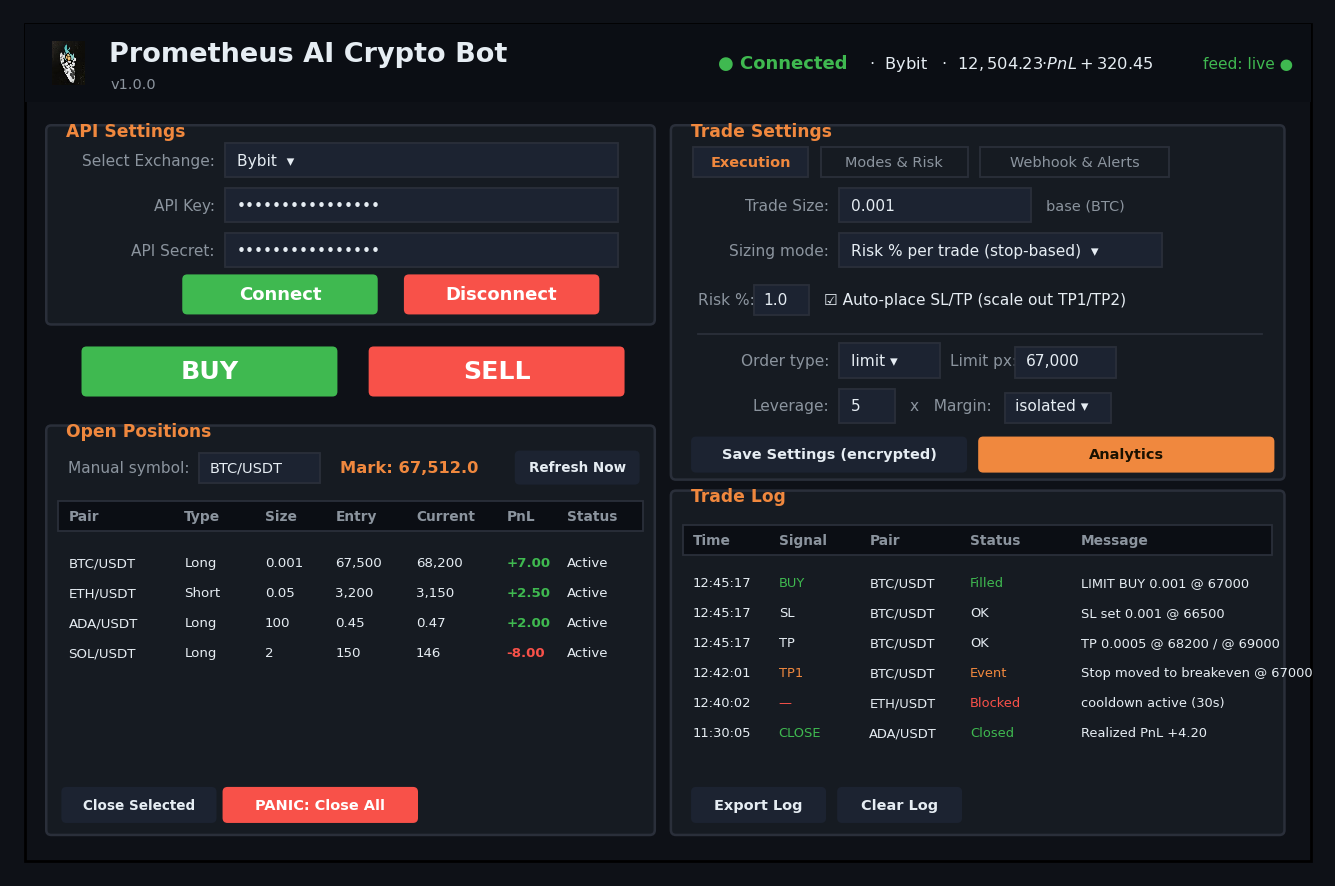
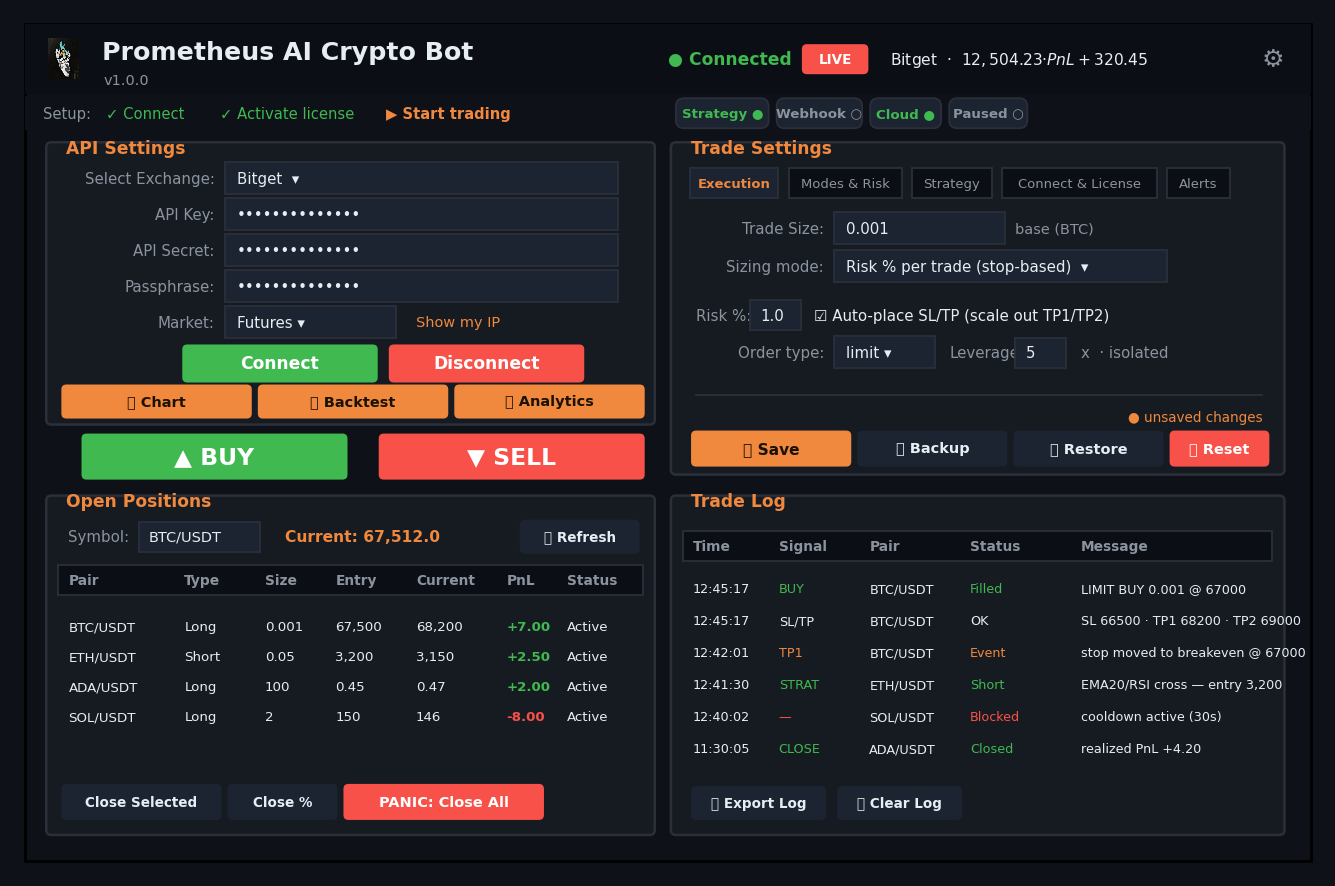
Docs: update GUI mockup to current UI (5 tabs, mode badge, presets-era layout)
Refresh make_mockup.py + gui_mockup.png to match the shipped main window: LIVE
mode badge + gear, setup strip + status chips, API panel with Passphrase/Market
and Chart/Backtest/Analytics, BUY/SELL, 4 running positions, the 5-tab Trade
Settings (Execution/Modes & Risk/Strategy/Connect & License/Alerts) with
Save/Backup/Restore/Reset, and an updated trade log.

diff --git a/trading_bot/make_mockup.py b/trading_bot/make_mockup.py
@@ -1,7 +1,9 @@
-"""Render a mockup of the redesigned (dark) GUI to PNG.
+"""Render a mockup of the current (dark) GUI to PNG.
 
-Preview of the Prometheus AI Crypto Bot window — dark theme, branded header,
-tabbed Trade Settings. Run:  python make_mockup.py  ->  gui_mockup.png
+Preview of the Prometheus AI Crypto Bot main window — dark theme, branded
+header with a mode badge + gear, setup strip, API panel with Chart / Backtest /
+Analytics, open positions running, the 5-tab Trade Settings, and the trade log.
+Run:  python make_mockup.py  ->  gui_mockup.png
 """
 
 import os
@@ -43,10 +45,10 @@ def panel(x, y, w, h, title=None):
                 fontweight="bold", va="center", ha="left", zorder=4)
 
 
-def field(x, y, w, label, value="", h=0.34, show=False):
-    ax.text(x, y + h / 2, label, fontsize=8.5, va="center", ha="right", color=DIM)
+def field(x, y, w, label, value="", h=0.32, show=False):
+    ax.text(x, y + h / 2, label, fontsize=8.3, va="center", ha="right", color=DIM)
     ax.add_patch(Rectangle((x + 0.1, y), w, h, fc=ELEV, ec=BORDER, lw=1, zorder=3))
-    ax.text(x + 0.22, y + h / 2, ("•" * 16 if show else value), fontsize=8.5,
+    ax.text(x + 0.22, y + h / 2, ("•" * 14 if show else value), fontsize=8.3,
             va="center", ha="left", color=TXT, zorder=4)
 
 
@@ -57,48 +59,75 @@ def button(x, y, w, h, text, fc, tc="white", fs=10):
             fontsize=fs, fontweight="bold", zorder=4)
 
 
+def chip(x, y, text, fc, tc):
+    w = 0.16 + 0.072 * len(text)
+    ax.add_patch(FancyBboxPatch((x, y), w, 0.26, boxstyle="round,pad=0.02,rounding_size=0.08",
+                                fc=fc, ec=BORDER, lw=1, zorder=3))
+    ax.text(x + w / 2, y + 0.13, text, ha="center", va="center", color=tc,
+            fontsize=7.4, fontweight="bold", zorder=4)
+    return w
+
+
 # window frame
 ax.add_patch(Rectangle((0.12, 0.12), 12.76, 8.36, fc=BG, ec="#000000", lw=1.5, zorder=1))
 
 # ===== header =====
-ax.add_patch(Rectangle((0.12, 7.7), 12.76, 0.78, fc=HEADER, ec="none", zorder=2))
+ax.add_patch(Rectangle((0.12, 7.78), 12.76, 0.7, fc=HEADER, ec="none", zorder=2))
 try:
     logo = plt.imread(os.path.join(HERE, "logo.png"))
-    ab = AnnotationBbox(OffsetImage(logo, zoom=0.16), (0.55, 8.09), frameon=False, zorder=5)
+    ab = AnnotationBbox(OffsetImage(logo, zoom=0.15), (0.5, 8.13), frameon=False, zorder=5)
     ax.add_artist(ab)
 except Exception:
     pass
-ax.text(0.95, 8.18, "Prometheus AI Crypto Bot", fontsize=15, fontweight="bold", color=TXT, va="center", zorder=5)
-ax.text(0.97, 7.88, "v1.0.0", fontsize=8, color=DIM, va="center", zorder=5)
-# live status (right)
-ax.text(12.7, 8.09, "feed: live ●", color=GREEN, fontsize=8.5, ha="right", va="center", zorder=5)
-ax.text(7.0, 8.09, "● Connected", color=GREEN, fontsize=10, fontweight="bold", va="center", zorder=5)
-ax.text(8.5, 8.09, "·  Bybit   ·  $12,504.23   ·  PnL +$320.45", color=TXT, fontsize=9, va="center", zorder=5)
+ax.text(0.88, 8.2, "Prometheus AI Crypto Bot", fontsize=14, fontweight="bold", color=TXT, va="center", zorder=5)
+ax.text(0.9, 7.92, "v1.0.0", fontsize=8, color=DIM, va="center", zorder=5)
+# right side: connected + LIVE badge + balance + gear
+ax.text(6.5, 8.13, "● Connected", color=GREEN, fontsize=9.5, fontweight="bold", va="center", zorder=5)
+button(7.85, 8.0, 0.62, 0.26, "LIVE", RED, fs=7.5)
+ax.text(8.7, 8.13, "Bitget  ·  $12,504.23  ·  PnL +$320.45", color=TXT, fontsize=8.6, va="center", zorder=5)
+ax.text(12.62, 8.13, "⚙", color=DIM, fontsize=14, ha="right", va="center", zorder=5)
 
-# ===== LEFT: API =====
-panel(0.35, 5.5, 6.0, 1.95, title="API Settings")
-field(2.0, 6.95, 3.9, "Select Exchange:", "Bybit  ▾")
-field(2.0, 6.5, 3.9, "API Key:", show=True)
-field(2.0, 6.05, 3.9, "API Secret:", show=True)
-button(1.7, 5.6, 1.9, 0.36, "Connect", GREEN)
-button(3.9, 5.6, 1.9, 0.36, "Disconnect", RED)
+# ===== setup / status strip =====
+ax.add_patch(Rectangle((0.12, 7.42), 12.76, 0.34, fc=BG, ec="none", zorder=2))
+ax.text(0.3, 7.59, "Setup:", fontsize=8.2, color=DIM, va="center", zorder=4)
+ax.text(0.92, 7.59, "✓ Connect", fontsize=8.2, color=GREEN, va="center", zorder=4)
+ax.text(2.05, 7.59, "✓ Activate license", fontsize=8.2, color=GREEN, va="center", zorder=4)
+ax.text(3.7, 7.59, "▶ Start trading", fontsize=8.2, color=ACCENT, fontweight="bold", va="center", zorder=4)
+xx = 6.6
+for label, on in [("Strategy ●", True), ("Webhook ○", False), ("Cloud ●", True), ("Paused ○", False)]:
+    xx += chip(xx, 7.46, label, ELEV, GREEN if "●" in label else DIM) + 0.12
 
-# BUY / SELL  (smaller, 5px-radius rounded corners)
-button(0.7, 4.78, 2.5, 0.46, "BUY", GREEN, fs=14)
-button(3.55, 4.78, 2.5, 0.46, "SELL", RED, fs=14)
+# ===== LEFT: API settings =====
+panel(0.35, 4.5, 6.0, 2.78, title="API Settings")
+field(2.0, 6.78, 3.9, "Select Exchange:", "Bitget  ▾")
+field(2.0, 6.42, 3.9, "API Key:", show=True)
+field(2.0, 6.06, 3.9, "API Secret:", show=True)
+field(2.0, 5.70, 3.9, "Passphrase:", show=True)
+field(2.0, 5.34, 1.7, "Market:", "Futures ▾")
+ax.text(4.0, 5.5, "Show my IP", fontsize=8, color=ACCENT, va="center", zorder=4)
+button(1.7, 4.92, 1.9, 0.34, "Connect", GREEN, fs=9.5)
+button(3.75, 4.92, 1.9, 0.34, "Disconnect", RED, fs=9.5)
+# analysis tools
+button(0.5, 4.56, 1.85, 0.3, "📈 Chart", ACCENT, "#1a1100", fs=8)
+button(2.45, 4.56, 1.85, 0.3, "📊 Backtest", ACCENT, "#1a1100", fs=8)
+button(4.4, 4.56, 1.85, 0.3, "📉 Analytics", ACCENT, "#1a1100", fs=8)
 
-# Open positions
-panel(0.35, 0.4, 6.0, 4.05, title="Open Positions")
-ax.text(0.55, 4.05, "Manual symbol:", fontsize=8.5, color=DIM, va="center")
-ax.add_patch(Rectangle((1.85, 3.9), 1.2, 0.3, fc=ELEV, ec=BORDER, lw=1, zorder=3))
-ax.text(1.95, 4.05, "BTC/USDT", fontsize=8, va="center", color=TXT, zorder=4)
-ax.text(3.25, 4.05, "Mark: 67,512.0", fontsize=9, fontweight="bold", color=ACCENT, va="center", zorder=4)
-button(5.0, 3.9, 1.2, 0.3, "Refresh Now", ELEV, TXT, fs=7.5)
+# BUY / SELL
+button(0.7, 3.95, 2.6, 0.42, "▲ BUY", GREEN, fs=13)
+button(3.65, 3.95, 2.6, 0.42, "▼ SELL", RED, fs=13)
+
+# ===== LEFT: open positions =====
+panel(0.35, 0.4, 6.0, 3.35, title="Open Positions")
+ax.text(0.55, 3.36, "Symbol:", fontsize=8.3, color=DIM, va="center")
+ax.add_patch(Rectangle((1.25, 3.21), 1.2, 0.3, fc=ELEV, ec=BORDER, lw=1, zorder=3))
+ax.text(1.35, 3.36, "BTC/USDT", fontsize=8, va="center", color=TXT, zorder=4)
+ax.text(2.7, 3.36, "Current: 67,512.0", fontsize=8.6, fontweight="bold", color=ACCENT, va="center", zorder=4)
+button(5.05, 3.21, 1.15, 0.3, "🔄 Refresh", ELEV, TXT, fs=7.5)
 cols = ["Pair", "Type", "Size", "Entry", "Current", "PnL", "Status"]
 cx = [0.55, 1.7, 2.5, 3.2, 4.0, 4.9, 5.5]
-ax.add_patch(Rectangle((0.45, 3.42), 5.8, 0.3, fc=HEADER, ec=BORDER, lw=1, zorder=3))
+ax.add_patch(Rectangle((0.45, 2.78), 5.8, 0.3, fc=HEADER, ec=BORDER, lw=1, zorder=3))
 for c, x in zip(cols, cx):
-    ax.text(x, 3.57, c, fontsize=7.6, fontweight="bold", color=DIM, va="center", zorder=4)
+    ax.text(x, 2.93, c, fontsize=7.6, fontweight="bold", color=DIM, va="center", zorder=4)
 rows = [
     ("BTC/USDT", "Long", "0.001", "67,500", "68,200", "+7.00", "Active", GREEN),
     ("ETH/USDT", "Short", "0.05", "3,200", "3,150", "+2.50", "Active", GREEN),
@@ -106,63 +135,66 @@ rows = [
     ("SOL/USDT", "Long", "2", "150", "146", "-8.00", "Active", RED),
 ]
 for i, row in enumerate(rows):
-    yy = 3.1 - i * 0.3
+    yy = 2.46 - i * 0.3
     for j, (val, x) in enumerate(zip(row[:7], cx)):
         ax.text(x, yy, val, fontsize=7.4, color=(row[7] if j == 5 else TXT), va="center", zorder=4,
                 fontweight="bold" if j == 5 else "normal")
-button(0.5, 0.52, 1.5, 0.32, "Close Selected", ELEV, TXT, fs=7.5)
-button(2.1, 0.52, 1.9, 0.32, "PANIC: Close All", RED, fs=8)
+button(0.5, 0.55, 1.55, 0.32, "Close Selected", ELEV, TXT, fs=7.5)
+button(2.15, 0.55, 1.05, 0.32, "Close %", ELEV, TXT, fs=7.5)
+button(3.3, 0.55, 1.95, 0.32, "PANIC: Close All", RED, fs=8)
 
-# ===== RIGHT: Trade Settings (tabs) =====
-panel(6.55, 3.95, 6.05, 3.5, title="Trade Settings")
-tabs = [("Execution", True), ("Modes & Risk", False), ("Webhook & Alerts", False)]
-tx = 6.75
+# ===== RIGHT: Trade Settings (5 tabs) =====
+panel(6.55, 4.0, 6.05, 3.28, title="Trade Settings")
+tabs = [("Execution", True), ("Modes & Risk", False), ("Strategy", False),
+        ("Connect & License", False), ("Alerts", False)]
+tx = 6.72
 for name, active in tabs:
-    w = 0.2 + 0.105 * len(name)
-    ax.add_patch(Rectangle((tx, 6.95), w, 0.3, fc=ELEV if active else PANEL, ec=BORDER, lw=1, zorder=3))
-    ax.text(tx + w / 2, 7.1, name, fontsize=8, fontweight="bold" if active else "normal",
+    w = 0.14 + 0.082 * len(name)
+    ax.add_patch(Rectangle((tx, 6.74), w, 0.3, fc=ELEV if active else HEADER, ec=BORDER, lw=1, zorder=3))
+    ax.text(tx + w / 2, 6.89, name, fontsize=7.3, fontweight="bold" if active else "normal",
             color=ACCENT if active else DIM, ha="center", va="center", zorder=4)
-    tx += w + 0.12
-field(8.1, 6.5, 1.9, "Trade Size:", "0.001")
-ax.text(10.25, 6.67, "base (BTC)", fontsize=8, color=DIM, va="center")
-field(8.1, 6.05, 3.2, "Sizing mode:", "Risk % per trade (stop-based)  ▾")
-ax.text(6.8, 5.73, "Risk %:", fontsize=8.5, color=DIM, va="center")
-ax.add_patch(Rectangle((7.35, 5.57), 0.55, 0.3, fc=ELEV, ec=BORDER, lw=1, zorder=3))
-ax.text(7.45, 5.73, "1.0", fontsize=8.5, va="center", color=TXT, zorder=4)
-ax.text(8.05, 5.73, "☑ Auto-place SL/TP (scale out TP1/TP2)", fontsize=8.5, color=TXT, va="center")
-ax.plot([6.8, 12.4], [5.38, 5.38], color=BORDER, lw=1, zorder=3)
-field(8.1, 4.95, 1.0, "Order type:", "limit ▾")
-ax.text(9.3, 5.12, "Limit px:", fontsize=8.5, color=DIM, va="center")
-ax.add_patch(Rectangle((9.95, 4.95), 1.0, 0.3, fc=ELEV, ec=BORDER, lw=1, zorder=3))
-ax.text(10.05, 5.12, "67,000", fontsize=8.5, va="center", color=TXT, zorder=4)
-field(8.1, 4.5, 0.55, "Leverage:", "5")
-ax.text(8.9, 4.67, "x   Margin:", fontsize=8.5, color=DIM, va="center")
-ax.add_patch(Rectangle((9.85, 4.5), 1.05, 0.3, fc=ELEV, ec=BORDER, lw=1, zorder=3))
-ax.text(9.95, 4.67, "isolated ▾", fontsize=8.5, va="center", color=TXT, zorder=4)
-button(6.75, 4.02, 2.7, 0.32, "Save Settings (encrypted)", ELEV, TXT, fs=8)
-button(9.6, 4.02, 2.9, 0.32, "Analytics", ACCENT, "#1a1100", fs=8)
+    tx += w + 0.1
+field(8.05, 6.28, 1.7, "Trade Size:", "0.001")
+ax.text(9.95, 6.44, "base (BTC)", fontsize=8, color=DIM, va="center")
+field(8.05, 5.9, 3.3, "Sizing mode:", "Risk % per trade (stop-based)  ▾")
+ax.text(6.78, 5.57, "Risk %:", fontsize=8.3, color=DIM, va="center")
+ax.add_patch(Rectangle((7.32, 5.42), 0.5, 0.3, fc=ELEV, ec=BORDER, lw=1, zorder=3))
+ax.text(7.42, 5.57, "1.0", fontsize=8.3, va="center", color=TXT, zorder=4)
+ax.text(7.95, 5.57, "☑ Auto-place SL/TP (scale out TP1/TP2)", fontsize=8.3, color=TXT, va="center")
+field(8.05, 5.04, 1.0, "Order type:", "limit ▾")
+ax.text(9.3, 5.2, "Leverage:", fontsize=8.3, color=DIM, va="center")
+ax.add_patch(Rectangle((9.95, 5.04), 0.5, 0.3, fc=ELEV, ec=BORDER, lw=1, zorder=3))
+ax.text(10.05, 5.2, "5", fontsize=8.3, va="center", color=TXT, zorder=4)
+ax.text(10.6, 5.2, "x  · isolated", fontsize=8.3, color=DIM, va="center")
+ax.plot([6.78, 12.4], [4.78, 4.78], color=BORDER, lw=1, zorder=3)
+# unsaved marker + Save / Backup / Restore / Reset
+ax.text(12.4, 4.55, "● unsaved changes", fontsize=7.5, color=ACCENT, ha="right", va="center", zorder=4)
+button(6.75, 4.08, 1.55, 0.32, "💾 Save", ACCENT, "#1a1100", fs=8.5)
+button(8.4, 4.08, 1.45, 0.32, "📦 Backup", ELEV, TXT, fs=8)
+button(9.95, 4.08, 1.45, 0.32, "📂 Restore", ELEV, TXT, fs=8)
+button(11.5, 4.08, 0.95, 0.32, "🔄 Reset", RED, fs=8)
 
-# Trade log
-panel(6.55, 0.4, 6.05, 3.4, title="Trade Log")
+# ===== RIGHT: trade log =====
+panel(6.55, 0.4, 6.05, 3.35, title="Trade Log")
 lcols = ["Time", "Signal", "Pair", "Status", "Message"]
 lx = [6.75, 7.6, 8.5, 9.5, 10.6]
-ax.add_patch(Rectangle((6.65, 3.18), 5.85, 0.3, fc=HEADER, ec=BORDER, lw=1, zorder=3))
+ax.add_patch(Rectangle((6.65, 3.12), 5.85, 0.3, fc=HEADER, ec=BORDER, lw=1, zorder=3))
 for c, x in zip(lcols, lx):
-    ax.text(x, 3.33, c, fontsize=7.6, fontweight="bold", color=DIM, va="center", zorder=4)
+    ax.text(x, 3.27, c, fontsize=7.6, fontweight="bold", color=DIM, va="center", zorder=4)
 logs = [
     ("12:45:17", "BUY", "BTC/USDT", "Filled", "LIMIT BUY 0.001 @ 67000", GREEN),
-    ("12:45:17", "SL", "BTC/USDT", "OK", "SL set 0.001 @ 66500", TXT),
-    ("12:45:17", "TP", "BTC/USDT", "OK", "TP 0.0005 @ 68200 / @ 69000", TXT),
-    ("12:42:01", "TP1", "BTC/USDT", "Event", "Stop moved to breakeven @ 67000", ACCENT),
-    ("12:40:02", "—", "ETH/USDT", "Blocked", "cooldown active (30s)", RED),
-    ("11:30:05", "CLOSE", "ADA/USDT", "Closed", "Realized PnL +4.20", GREEN),
+    ("12:45:17", "SL/TP", "BTC/USDT", "OK", "SL 66500 · TP1 68200 · TP2 69000", TXT),
+    ("12:42:01", "TP1", "BTC/USDT", "Event", "stop moved to breakeven @ 67000", ACCENT),
+    ("12:41:30", "STRAT", "ETH/USDT", "Short", "EMA20/RSI cross — entry 3,200", GREEN),
+    ("12:40:02", "—", "SOL/USDT", "Blocked", "cooldown active (30s)", RED),
+    ("11:30:05", "CLOSE", "ADA/USDT", "Closed", "realized PnL +4.20", GREEN),
 ]
 for i, row in enumerate(logs):
-    yy = 2.9 - i * 0.3
+    yy = 2.84 - i * 0.32
     for j, (val, x) in enumerate(zip(row[:5], lx)):
-        ax.text(x, yy, val, fontsize=7.2, color=(row[5] if j in (1, 3) else TXT), va="center", zorder=4)
-button(6.75, 0.52, 1.3, 0.32, "Export Log", ELEV, TXT, fs=8)
-button(8.2, 0.52, 1.2, 0.32, "Clear Log", ELEV, TXT, fs=8)
+        ax.text(x, yy, val, fontsize=7.1, color=(row[5] if j in (1, 3) else TXT), va="center", zorder=4)
+button(6.75, 0.55, 1.3, 0.3, "📤 Export Log", ELEV, TXT, fs=7.5)
+button(8.2, 0.55, 1.2, 0.3, "🧽 Clear Log", ELEV, TXT, fs=7.5)
 
 fig.savefig(OUT, dpi=130, bbox_inches="tight", facecolor=BG)
-print("wrote", OUT)
+print(f"wrote {OUT}")
